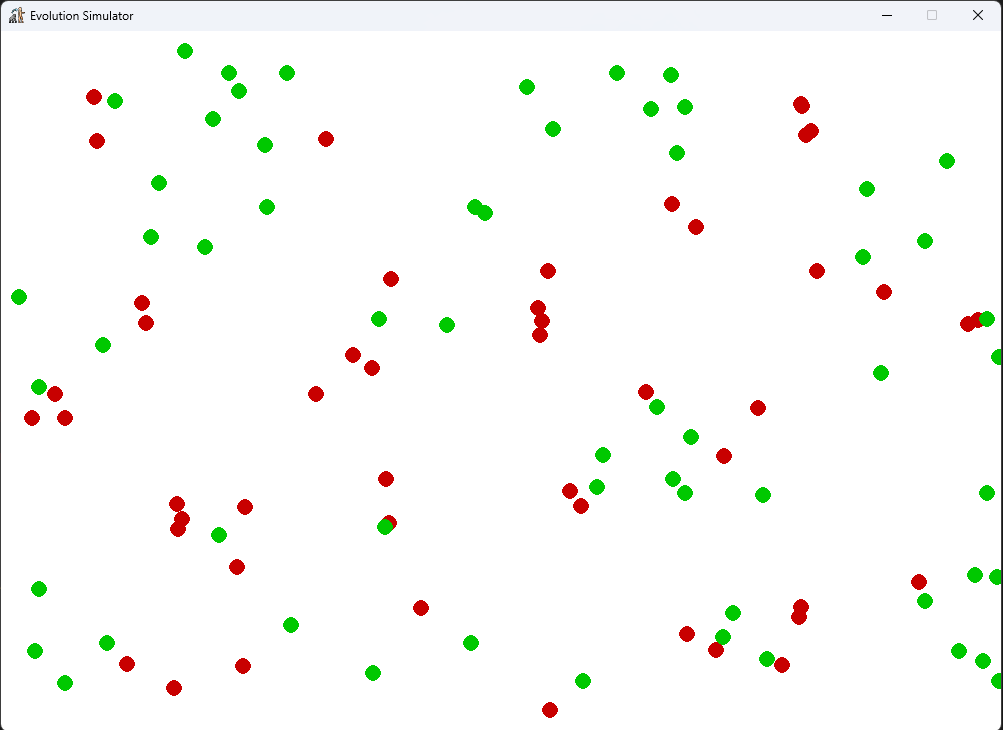
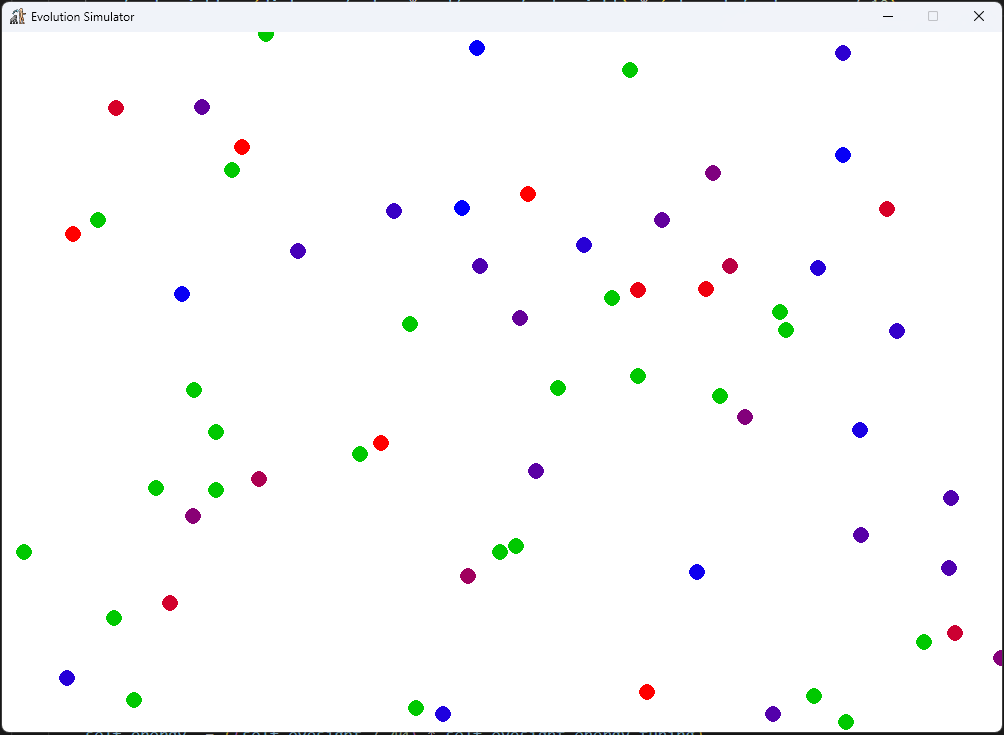
Added rendering of default creatures' energy level by color, changed decision algorithms, added a max creature count limiter that keeps only the top n creatures. Updated screenshot of the project.

diff --git a/Agents/Creatures/Creature_Default.py b/Agents/Creatures/Creature_Default.py
@@ -16,14 +16,12 @@ RED =  (200, 0, 0)
 
 class Creature_Default(Creature):
     # constants
-    move_weights_change_scale = 0.075
-    speed_change_scale = 0.08
-    weight_change_scale = 1.25
-    eyesight_change_scale = 4
-    object_collision_box_edge = 1
-
+    move_weights_change_scale = 0.165
+    speed_change_scale = 0.135
+    weight_change_scale = 3.15
+    eyesight_change_scale = 8
     movement_energy_tuning = 0.5
-    eyesight_energy_tuning = 0.2
+    eyesight_energy_tuning = 0.1
     weight_power_factor = 25
 
     weight_min = 1
@@ -40,19 +38,19 @@ class Creature_Default(Creature):
     # evolution
     speed = 1 # coordinate movement per time unit
     weight = 15 # lets you store more energy (energy_max_by_weight_scale * weight) but costs more energy per tile movement ((weight / energy_max_by_weight_scale)*tiles)
-    eyesight = 75 # distance you can see, but costs more energy per time unit (eyesight / eyesight_energy_cost_scale) per time
+    eyesight = 100 # distance you can see, but costs more energy per time unit (eyesight / eyesight_energy_cost_scale) per time
 
     # movement weights (the max of these is the action performed)
     move_food_weight = 2.0   # ((eyesight - food_distance) * move_food_weight) * (food.energy / 10)
-    move_escape_weight = 3.0 # ((eyesight - escape_distance) * move_escape_weight) * ((escape.energy / self.energy))
-    move_attack_weight = 1.0 # ((eyesight - attack_distance) * move_attack_weight) * (self.energy / attack.energy)
+    move_escape_weight = 2.0 # ((eyesight - escape_distance) * move_escape_weight) * ((escape.energy / self.energy))
+    move_attack_weight = 2.0 # ((eyesight - attack_distance) * move_attack_weight) * (self.energy / attack.energy)
 
     def run_ai(self, creatures, food):
         if self.alive == False:
             return
 
-        if self.energy > self.weight * 28:
-            self.energy = self.weight * 28
+        if self.energy > self.weight * 30:
+            self.energy = self.weight * 30
 
         creatures_copy: list[Creature] = creatures[:]
         visible_creatures: list[Creature] = []
@@ -78,14 +76,16 @@ class Creature_Default(Creature):
         closest_escape: Creature = None
         closest_escape_distance = self.eyesight + 100 # arbitrary
 
-        closest_attack: Creature = None
-        closest_attack_distance = self.eyesight + 100 # arbitrary
+        highest_attack: Creature = None
+        highest_attack_energy = 0 # arbitrary
+        highest_attack_distance = -1
 
         for c, d in visible_creatures:
             if c.energy < self.energy:
-                if d < closest_attack_distance:
-                    closest_attack = c
-                    closest_attack_distance = d
+                if c.energy > highest_attack_energy:
+                    highest_attack = c
+                    highest_attack_energy = c.energy
+                    highest_attack_distance = d
             else:
                 if d < closest_escape_distance:
                     closest_escape = c
@@ -99,11 +99,14 @@ class Creature_Default(Creature):
         food_weight, escape_weight, attack_weight = (-1, -1, -1)
 
         if closest_food != None:
-            food_weight = ((self.eyesight - closest_food_distance) * self.move_food_weight) * (closest_food.energy / 10)
+            distance_factor = 1 - (closest_food_distance / self.eyesight)
+            food_weight = (distance_factor * self.move_food_weight) * (closest_food.energy / 10)
         if closest_escape != None:
-            escape_weight = ((self.eyesight - closest_escape_distance) * self.move_escape_weight) * (closest_escape.energy / max(0.1, self.energy)) / 3
-        if closest_attack != None:
-            attack_weight = ((self.eyesight - closest_attack_distance) * self.move_attack_weight) * (self.energy / max(0.1, closest_attack.energy)) / 3
+            distance_factor = 1 - (closest_escape_distance / self.eyesight)
+            escape_weight = (distance_factor * self.move_escape_weight) * (closest_escape.energy / 10)
+        if highest_attack != None:
+            distance_factor = 1 - (highest_attack_distance / self.eyesight)
+            attack_weight = (distance_factor * self.move_attack_weight) * (highest_attack_energy / 10)
 
         chosen_action = MOVE_WANDER
         if food_weight > escape_weight and food_weight > attack_weight:
@@ -119,7 +122,7 @@ class Creature_Default(Creature):
         elif chosen_action == MOVE_FOOD:
             move_direction = get_move_towards_vector(self, closest_food)
         elif chosen_action == MOVE_ATTACK:
-            move_direction = get_move_towards_vector(self, closest_attack)
+            move_direction = get_move_towards_vector(self, highest_attack)
         elif chosen_action == MOVE_ESCAPE:
             move_direction = get_move_away_vector(self, closest_escape)
             if move_direction[0] <= 0 and move_direction[1] <= 0:
@@ -136,7 +139,7 @@ class Creature_Default(Creature):
     def child_count(self):
         count = math.floor(max(0, min(1, self.energy / self.weight / 25)))
         if count != 0:
-            self.energy -= self.weight * 15
+            self.energy -= self.weight * 12
         return count
 
     def wander_behaviour(self):
@@ -154,10 +157,10 @@ class Creature_Default(Creature):
         self.alive = False
 
     def won_fight(self, fighter):
-        self.energy += fighter.energy / 1.3
+        self.energy += fighter.energy * 20
 
     def collides(self, object):
-        if get_distance(self, object) <= self.object_collision_box_edge:
+        if get_distance(self, object) / 2 <= self.object_collision_box_edge + object.object_collision_box_edge:
             return True
         return False
 
@@ -171,7 +174,7 @@ class Creature_Default(Creature):
         self.move_escape_weight = max(get_new_value(self.move_escape_weight, self.move_weights_change_scale), self.action_weight_min)
 
     def apply_move_energy_cost(self, distance):
-        self.energy -= ((self.weight / math.pow(7, self.weight_power_factor/self.weight)) * distance * self.movement_energy_tuning)
+        self.energy -= ((self.weight / math.pow(10, self.weight_power_factor/self.weight)) * distance * self.movement_energy_tuning)
 
     def copy(self):
         return_object = Creature_Default()
@@ -188,7 +191,10 @@ class Creature_Default(Creature):
         return return_object
 
     def draw_object(self, display_surface, render_scale):
-        pygame.draw.circle(display_surface, RED, (self.x * render_scale, self.y * render_scale), self.object_collision_box_edge * 4 * render_scale)
+        max_energy_drawing = 225
+        red = pygame.math.lerp(0, 255, pygame.math.clamp(self.energy / max_energy_drawing, 0, 1))
+        blue = pygame.math.lerp(255, 0, pygame.math.clamp(self.energy / max_energy_drawing, 0, 1))
+        pygame.draw.circle(display_surface, (red, 0, blue), (self.x * render_scale, self.y * render_scale), self.object_collision_box_edge * 4 * render_scale)
 
 
     ###
@@ -235,6 +241,7 @@ class Creature_Default(Creature):
         output = datapoints[:]
         for n in range(len(output)): # All are numbers.
             output[n] = output[n] / count
+            output[n] = round(output[n], 3)
 
         return output
 

diff --git a/Game.py b/Game.py
@@ -25,15 +25,17 @@ class Game:
     render_display = None
 
     # constants
-    food_energy_min = 25
-    food_energy_max = 40
+    food_energy_min = 10
+    food_energy_max = 15
 
     reproduction_factor = 3
 
-    sim_delay = 0.05
-    time_steps_day = 100
+    sim_delay = 0.01
+    time_steps_day = 200
     map_width = 500
     map_height = 350
+
+    max_creatures = 50
 
     render_scale = 2
 
@@ -63,7 +65,9 @@ class Game:
             clamped_distance = self.clamp_movement(c, self.map_width, self.map_height)
             c.apply_move_energy_cost(-clamped_distance) # Restore energy we don't actually use
 
-        for c in self.creatures:
+
+        top_creatures = {}
+        for idx,c in enumerate(self.creatures):
             if not c.alive:
                 continue
 
@@ -80,6 +84,26 @@ class Game:
                     continue
                 if c.collides(sub_c):
                     self.encounter_handle(c, sub_c)
+            
+            if len(self.creatures) > self.max_creatures and self.time_steps + 1 == self.time_steps_day:
+                if len(top_creatures) == self.max_creatures:
+                    idx_bigger = -1
+                    bigger_size = 99999999999999999
+                    for t in top_creatures:
+                        if c.energy > top_creatures[t]:
+                            if top_creatures[t] < bigger_size:
+                                idx_bigger = t
+                                bigger_size = top_creatures[idx_bigger]
+                    if idx_bigger != -1:
+                        del top_creatures[idx_bigger]
+                        top_creatures[idx] = c.energy
+                else:
+                    top_creatures[idx] = c.energy
+        
+        if len(top_creatures) > 0:
+            for idx, c in enumerate(self.creatures):
+                if idx not in top_creatures:
+                    c.alive = False
 
         # Cleanup dead creatures
         copy_creatures = self.creatures[:]
@@ -166,7 +190,7 @@ class Game:
         pygame.display.set_icon(window_icon)
         pygame.display.set_caption("Evolution Simulator")
     
-    def group_creatures_on_exit(self):
+    def get_creature_group(self):
         creature_groups = []
         for c in self.creatures:
             found_group = False
@@ -197,7 +221,7 @@ class Game:
         
 
     def on_quit(self):
-        creatures = self.group_creatures_on_exit()
+        creatures = self.get_creature_group()
         averages = self.get_creatures_avg(creatures)
         print(averages)
         
@@ -222,7 +246,6 @@ class Game:
 
             if self.time_steps == self.time_steps_day:
                 self.time_steps = 0
-                self.day_end(foods_count)
                 if len(self.creatures) > 0:
                     index = -1
                     highest_energy = 0
@@ -232,6 +255,11 @@ class Game:
                             highest_energy = self.creatures[c].energy
 
                     print(f"Creatures: {len(self.creatures)} | Best Creature; Move Weights (E, A, F): {round(self.creatures[index].move_escape_weight, 3)}, {round(self.creatures[index].move_attack_weight, 3)}, {round(self.creatures[index].move_food_weight, 3)}, Weight: {round(self.creatures[index].weight, 3)}, Speed: {round(self.creatures[index].speed, 3)}, Eyesight: {round(self.creatures[index].eyesight, 3)}")
+                creatures_group = self.get_creature_group()
+                averages = self.get_creatures_avg(creatures_group)
+                print(averages)
+
+                self.day_end(foods_count)
                 self.draw_objects()
             last_run = time.time() - start_run
 

diff --git a/Agents/Food/Food_Default.py b/Agents/Food/Food_Default.py
@@ -10,7 +10,7 @@ class Food_Default(Food):
     energy_max = 40
 
     def draw_object(self, display_surface, render_scale):
-        pygame.draw.circle(display_surface, GREEN, (self.x * render_scale, self.y * render_scale),  4 * render_scale)
+        pygame.draw.circle(display_surface, GREEN, (self.x * render_scale, self.y * render_scale), self.object_collision_box_edge * 4 * render_scale)
 
     def __init__(self):
         super().__init__()

diff --git a/Agents/Creatures/Creature.py b/Agents/Creatures/Creature.py
@@ -16,6 +16,9 @@ class Creature:
     energy = 50
     alive = True
 
+    # collisions
+    object_collision_box_edge = 1
+
     def run_ai(self, creatures, food):
         return
 

diff --git a/Agents/Food/Food.py b/Agents/Food/Food.py
@@ -9,6 +9,7 @@ class Food:
     y = 0
     energy = 10
     alive = True
+    object_collision_box_edge = 1
 
     def draw_object(self, display_surface, render_scale):
         pass
